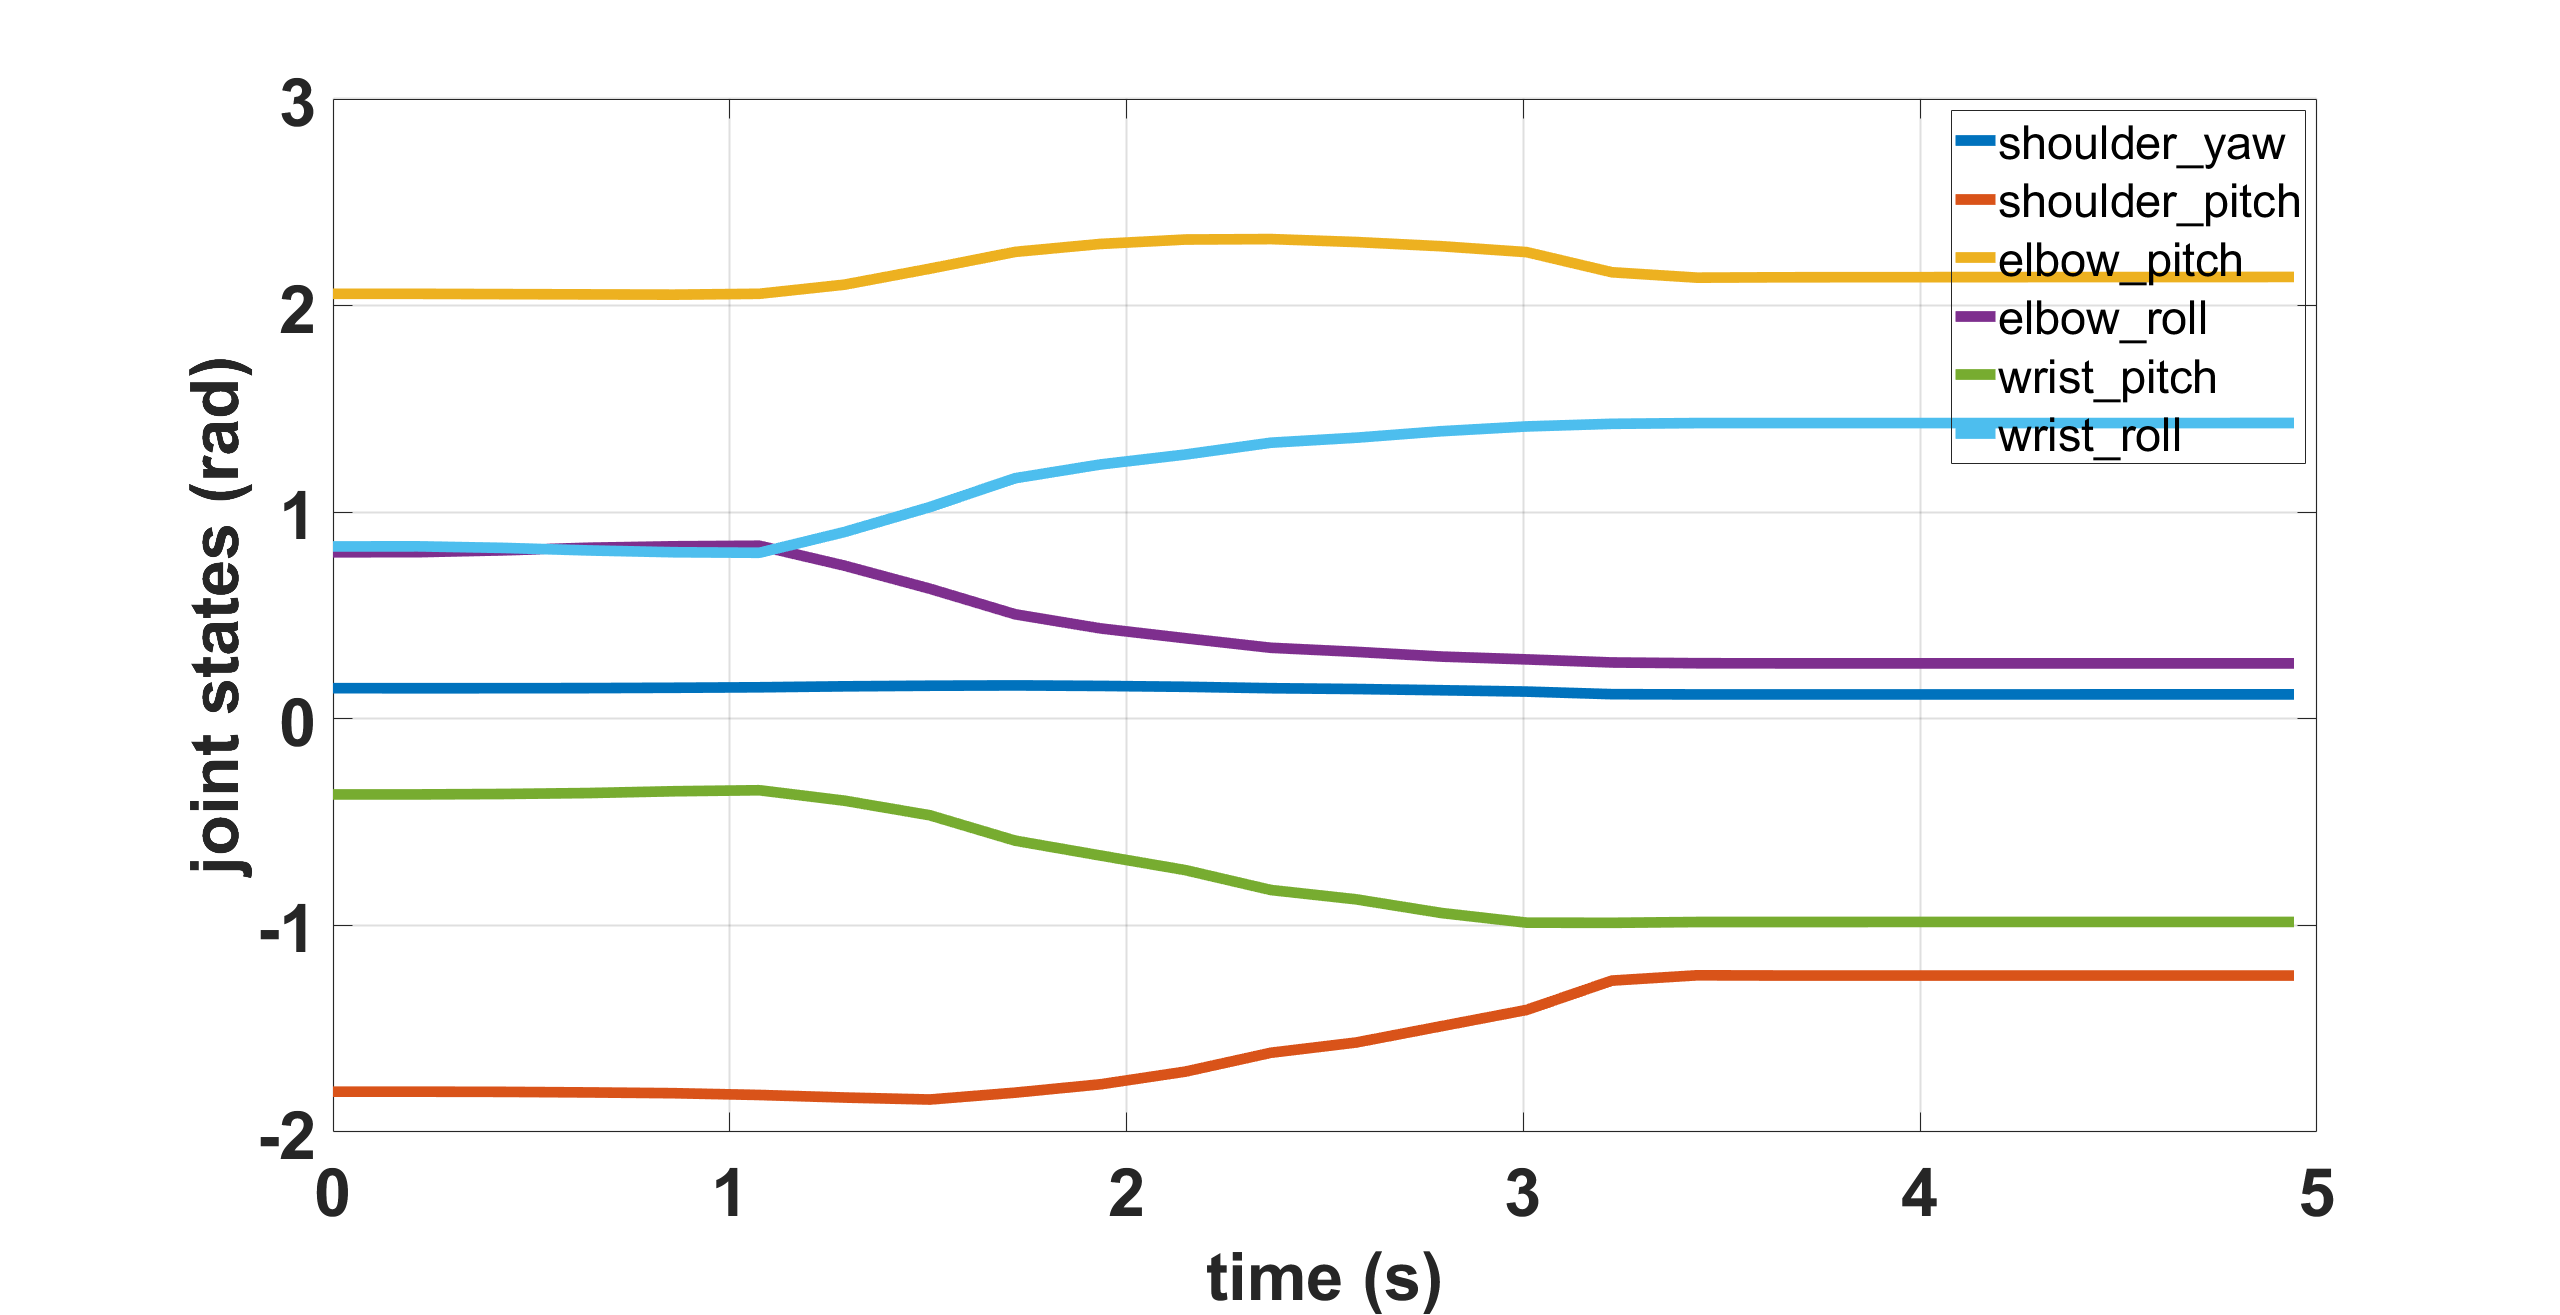
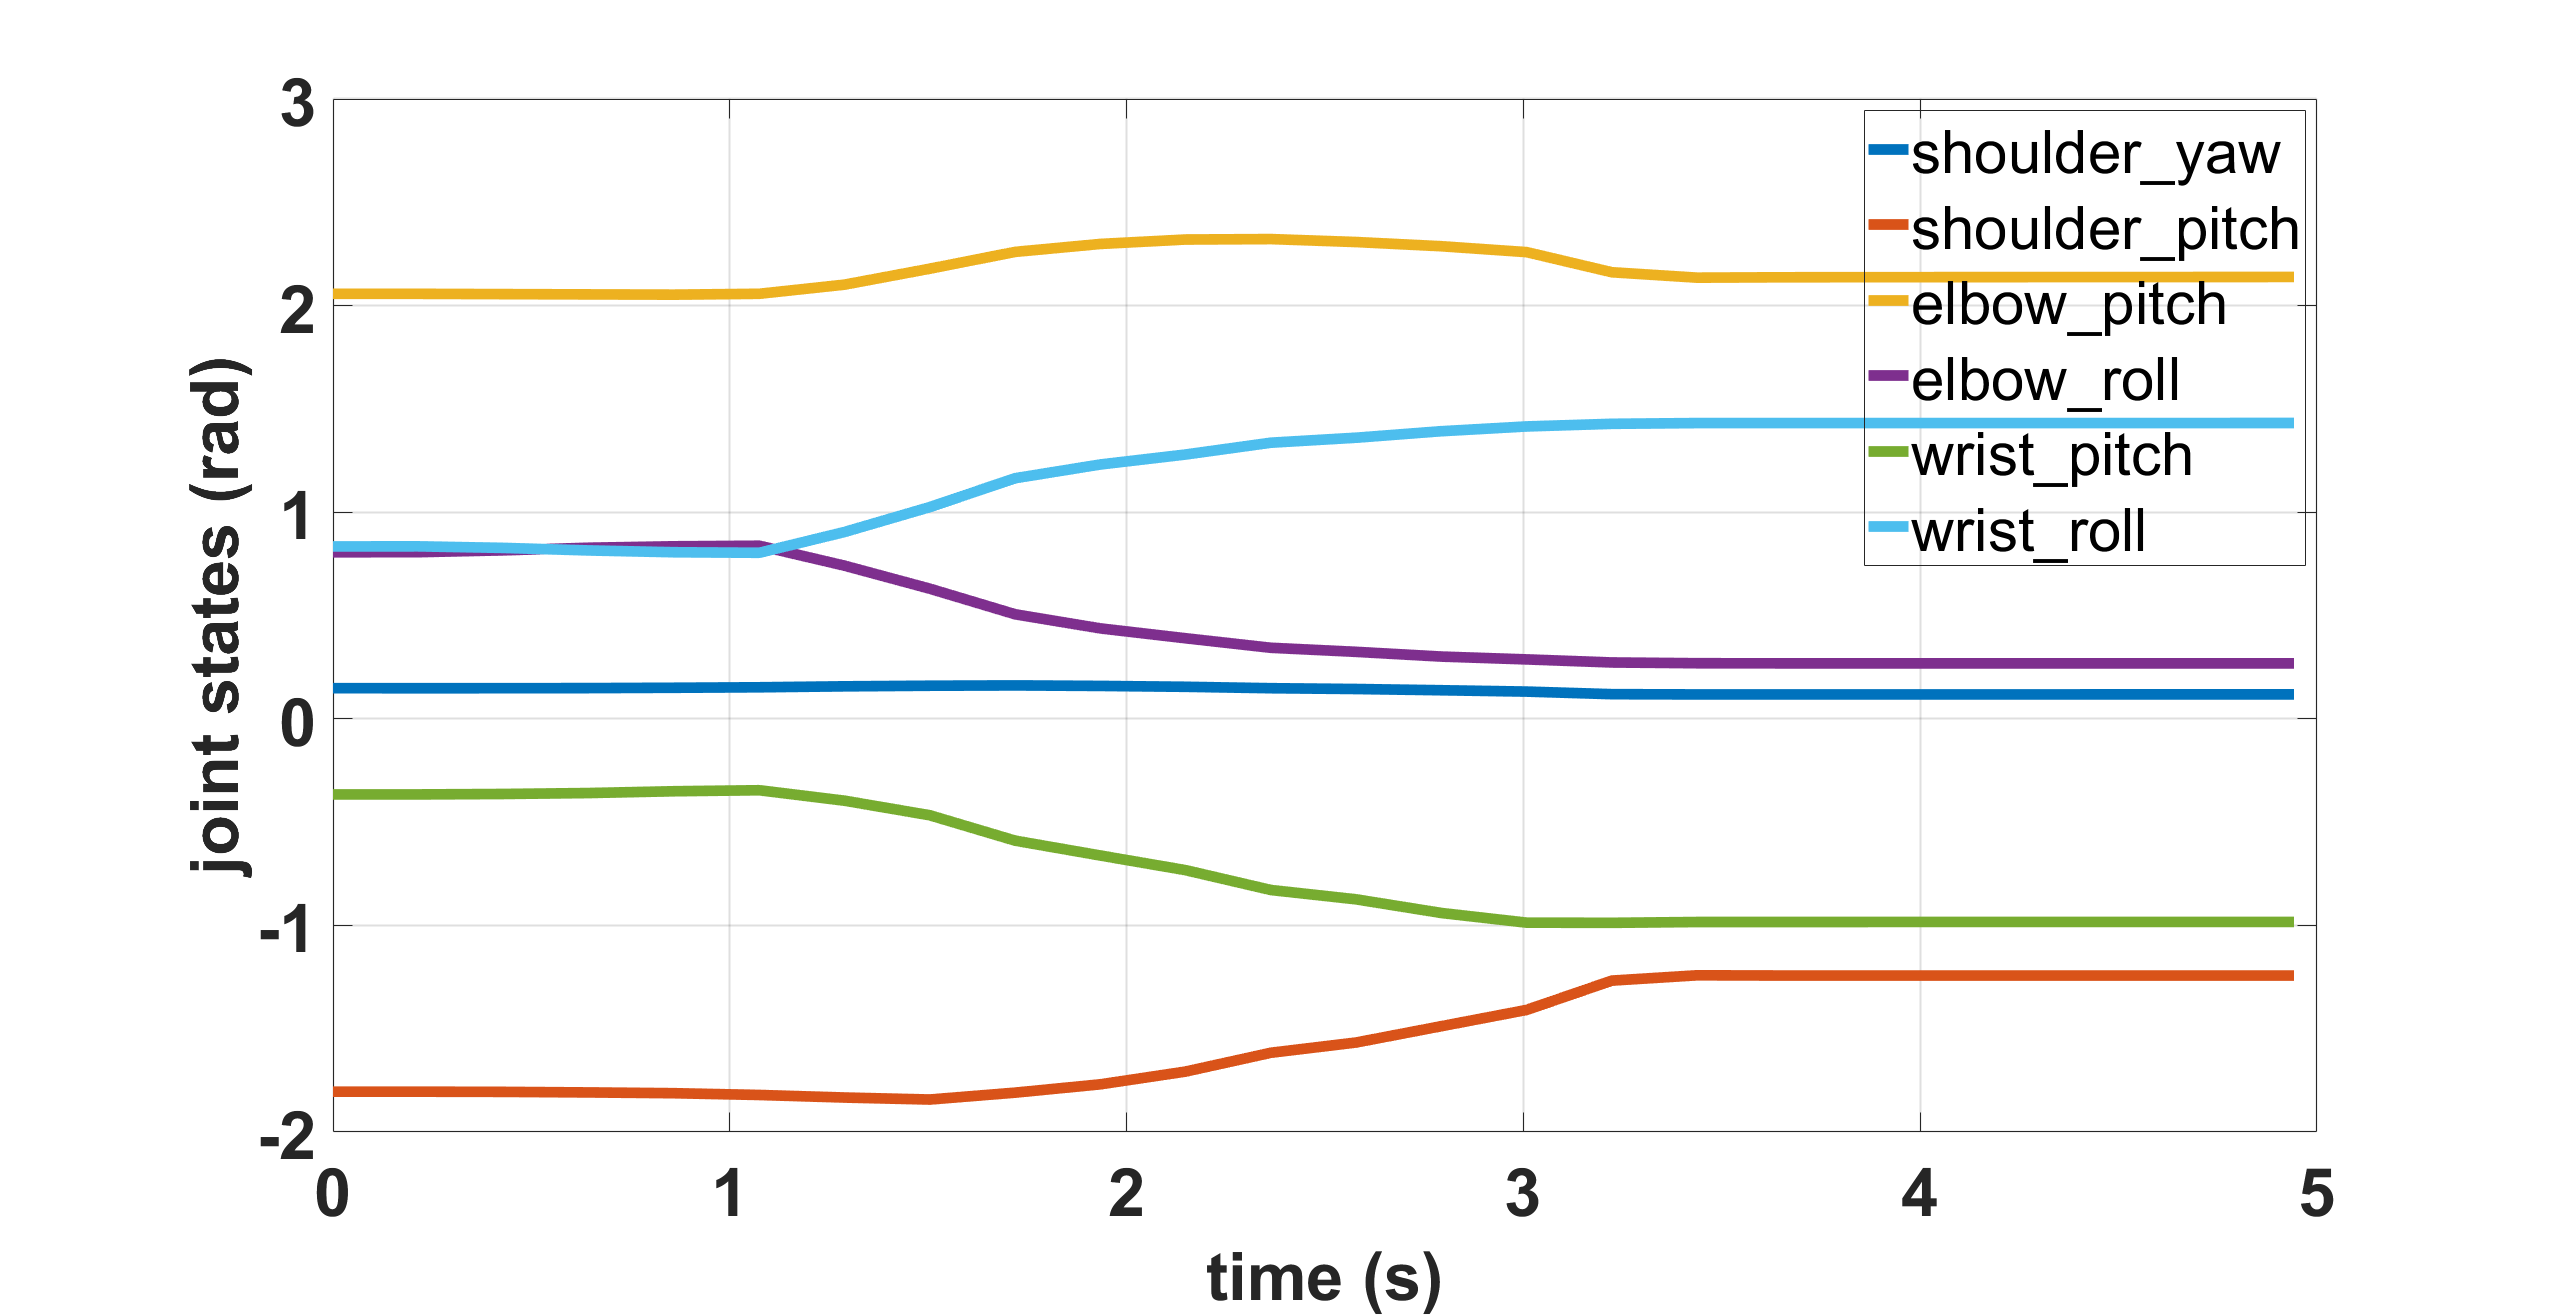
update joint-state chart legend font size and placement

Changed region(s): [[0.7188, 0.0935, 0.9062, 0.4365]]

diff --git a/real_robot_data_plots_and_demos/orientation_experiments/valve_turn_case_3/ee_position_and_joint_states_plotter.m b/real_robot_data_plots_and_demos/orientation_experiments/valve_turn_case_3/ee_position_and_joint_states_plotter.m
@@ -200,7 +200,7 @@ grid on
 % Set fontsizes for various plot parameters
 title_fontsize = 50;
 label_fontsize = 50;
-legend_fontsize = 35;
+legend_fontsize = 45;
 tick_fontsize = 50;
 grid_lw = 1.5;
 
@@ -219,7 +219,7 @@ ax_joint_states.XLabel.FontSize = label_fontsize;
 ax_joint_states.YLabel.FontSize = label_fontsize;
 ax_joint_states.ZLabel.FontSize = label_fontsize;
 ax_joint_states.Legend.FontSize = legend_fontsize;
-ax_joint_states.Legend.Location = "east";
+ax_joint_states.Legend.Location = "southwest";
 ax_joint_states.Title.FontSize = title_fontsize;
 ax_joint_states.GridLineWidth = grid_lw;
 
@@ -227,9 +227,9 @@ ax_joint_states.GridLineWidth = grid_lw;
 legend_position = ax_joint_states.Legend.Position;
 % shift_amount_x = 0.3825; 
 % shift_amount_y = 0.1825; 
-shift_amount_x = -0.365; 
-shift_amount_y = 0.28; 
-ax_joint_states.Legend.Position = [legend_position(1) + shift_amount_x, legend_position(2)+ shift_amount_y, legend_position(3), legend_position(4)];
+% shift_amount_x = -0.365; 
+% shift_amount_y = 0.28; 
+% ax_joint_states.Legend.Position = [legend_position(1) + shift_amount_x, legend_position(2)+ shift_amount_y, legend_position(3), legend_position(4)];
 
 % Set axis limits
 xlim([0 10])

diff --git a/real_robot_data_plots_and_demos/orientation_experiments/valve_turn_case_2/ee_position_and_joint_states_plotter.m b/real_robot_data_plots_and_demos/orientation_experiments/valve_turn_case_2/ee_position_and_joint_states_plotter.m
@@ -200,7 +200,7 @@ grid on
 % Set fontsizes for various plot parameters
 title_fontsize = 50;
 label_fontsize = 50;
-legend_fontsize = 35;
+legend_fontsize = 45;
 tick_fontsize = 50;
 grid_lw = 1.5;
 xlim([0 2.5])
@@ -221,7 +221,7 @@ ax_joint_states.XLabel.FontSize = label_fontsize;
 ax_joint_states.YLabel.FontSize = label_fontsize;
 ax_joint_states.ZLabel.FontSize = label_fontsize;
 ax_joint_states.Legend.FontSize = legend_fontsize;
-ax_joint_states.Legend.Location = "southwest";
+ax_joint_states.Legend.Location = "northeast";
 ax_joint_states.Title.FontSize = title_fontsize;
 ax_joint_states.GridLineWidth = grid_lw;
 

diff --git a/real_robot_data_plots_and_demos/orientation_experiments/valve_turn_case_4/ee_position_and_joint_states_plotter.m b/real_robot_data_plots_and_demos/orientation_experiments/valve_turn_case_4/ee_position_and_joint_states_plotter.m
@@ -200,7 +200,7 @@ grid on
 % Set fontsizes for various plot parameters
 title_fontsize = 50;
 label_fontsize = 50;
-legend_fontsize = 35;
+legend_fontsize = 45;
 tick_fontsize = 50;
 grid_lw = 1.5;
 
@@ -219,7 +219,7 @@ ax_joint_states.XLabel.FontSize = label_fontsize;
 ax_joint_states.YLabel.FontSize = label_fontsize;
 ax_joint_states.ZLabel.FontSize = label_fontsize;
 ax_joint_states.Legend.FontSize = legend_fontsize;
-ax_joint_states.Legend.Location = "northwest";
+ax_joint_states.Legend.Location = "southwest";
 ax_joint_states.Title.FontSize = title_fontsize;
 ax_joint_states.GridLineWidth = grid_lw;
 

diff --git a/real_robot_data_plots_and_demos/orientation_experiments/valve_turn_case_1/ee_position_and_joint_states_plotter.m b/real_robot_data_plots_and_demos/orientation_experiments/valve_turn_case_1/ee_position_and_joint_states_plotter.m
@@ -199,7 +199,7 @@ grid on
 % Set fontsizes for various plot parameters
 title_fontsize = 50;
 label_fontsize = 50;
-legend_fontsize = 35;
+legend_fontsize = 45;
 tick_fontsize = 50;
 grid_lw = 1.5;
 
